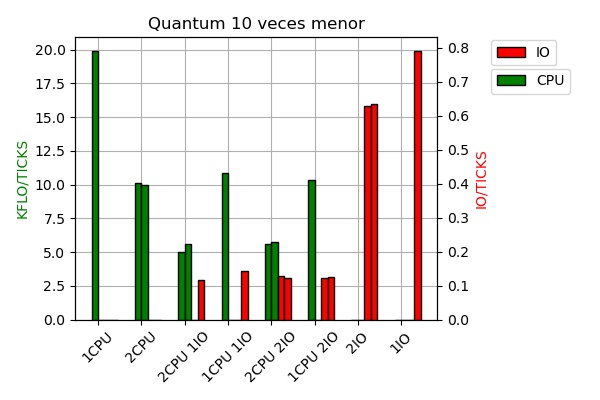
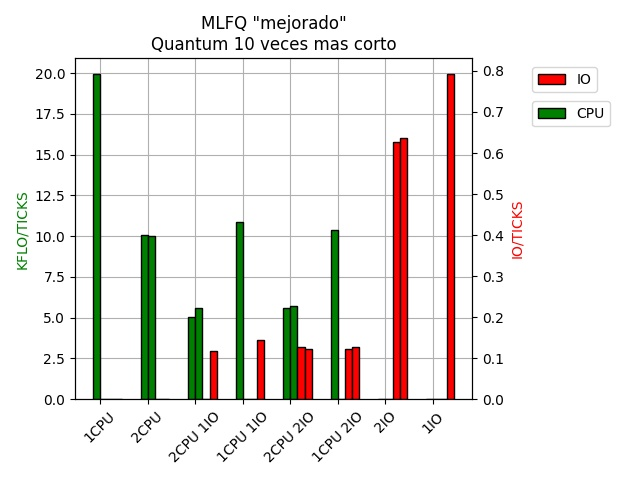
Agregar tipo de sheduler en las imagenes

Changed region(s): [[0.0, 0.03, 0.84, 0.96], [0.81, 0.09, 0.96, 0.27]]

diff --git a/gráfico/script para grafico.py b/gráfico/script para grafico.py
@@ -138,15 +138,15 @@ def grafico(path, title, sabefile):
 
 def graficar_todo():
   graficos_para_hacer = [
-    ("../Mediciones/round robin/quantum_100_less/",          "Round robing\nQuantum 100 veces mas corto",  "rr_100less.jpg"           ),
-    ("../Mediciones/round robin/quantum_10_less/",           "Round robing\nQuantum 10 veces mas corto",   "rr_10less.jpg"            ),
-    ("../Mediciones/round robin/quantum_normal/",           "Round robing\nQuantum normal",               "rr_normal.jpg"            ),
-    ("../Mediciones/mlfq/quantum_100_less/",                 "MLFQ normal\nQuantum 100 veces mas corto",   "mlfq_100less.jpg"         ),
-    ("../Mediciones/mlfq/quantum_10_less/",                  "MLFQ normal\nQuantum 10 veces mas corto",    "mlfq_10less.jpg"          ),
-    ("../Mediciones/mlfq/quantum_normal/",                  "MLFQ normal\nQuantum normal",                "mlfq_normal.jpg"          ),
-    ("../Mediciones/mlfq_puntos_estrella/quantum_100_less/", "MLFQ mejorado\nQuantum 100 veces mas corto", "mlfq_estrella_100less.jpg"),
-    ("../Mediciones/mlfq_puntos_estrella/quantum_10_less/",  "MLFQ mejorado\nQuantum 10 veces mas corto",  "mlfq_estrella_10less.jpg" ),
-    ("../Mediciones/mlfq_puntos_estrella/quantum_normal/",  "MLFQ mejorado\nQuantum normal",              "mlfq_estrella_normal.jpg" )
+    ("../Mediciones/round robin/quantum_100_less/",          "Round robing\nQuantum 100 veces mas corto",      "../imagenes/rr_100less.jpg"           ),
+    ("../Mediciones/round robin/quantum_10_less/",           "Round robing\nQuantum 10 veces mas corto",       "../imagenes/rr_10less.jpg"            ),
+    ("../Mediciones/round robin/quantum_normal/",            "Round robing\nQuantum normal",                   "../imagenes/rr_normal.jpg"            ),
+    ("../Mediciones/mlfq/quantum_100_less/",                 "MLFQ simple\nQuantum 100 veces mas corto",       "../imagenes/mlfq_100less.jpg"         ),
+    ("../Mediciones/mlfq/quantum_10_less/",                  "MLFQ simple\nQuantum 10 veces mas corto",        "../imagenes/mlfq_10less.jpg"          ),
+    ("../Mediciones/mlfq/quantum_normal/",                   "MLFQ simple\nQuantum normal",                    "../imagenes/mlfq_normal.jpg"          ),
+    ("../Mediciones/mlfq_puntos_estrella/quantum_100_less/", "MLFQ \"mejorado\"\nQuantum 100 veces mas corto", "../imagenes/mlfq_estrella_100less.jpg"),
+    ("../Mediciones/mlfq_puntos_estrella/quantum_10_less/",  "MLFQ \"mejorado\"\nQuantum 10 veces mas corto",  "../imagenes/mlfq_estrella_10less.jpg" ),
+    ("../Mediciones/mlfq_puntos_estrella/quantum_normal/",   "MLFQ \"mejorado\"\nQuantum normal",              "../imagenes/mlfq_estrella_normal.jpg" )
   ]
 
   for path, title, sabefile in graficos_para_hacer:
